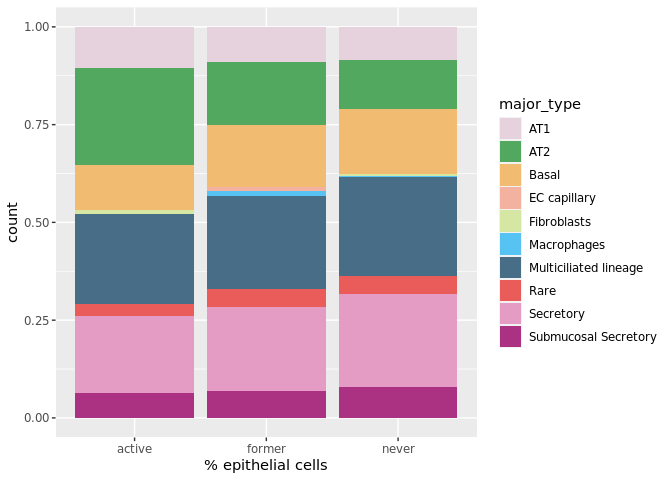
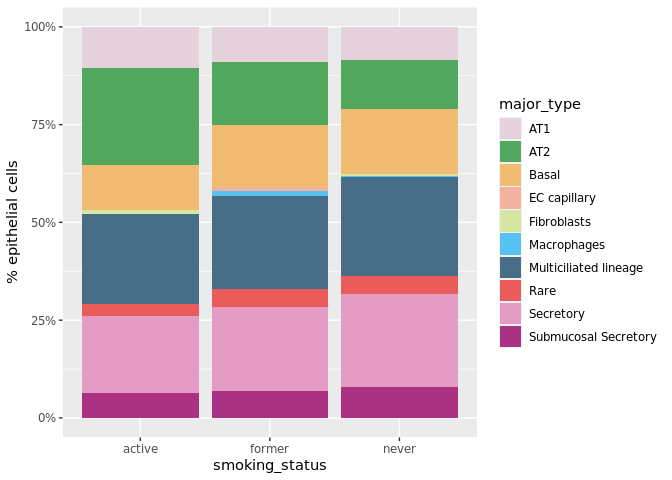
correcting y axis final fig unsup integration

diff --git a/examples/HLCA_core_atlas.md b/examples/HLCA_core_atlas.md
@@ -311,43 +311,43 @@ downstream analysis.
     combined.mc <- RunPCA(combined.mc, npcs = 30, verbose = FALSE)
     combined.mc <- RunUMAP(combined.mc, reduction = "pca", dims = 1:30)
 
-    ## 13:45:15 UMAP embedding parameters a = 0.9922 b = 1.112
+    ## 15:05:12 UMAP embedding parameters a = 0.9922 b = 1.112
 
-    ## 13:45:15 Read 11706 rows and found 30 numeric columns
+    ## 15:05:12 Read 11706 rows and found 30 numeric columns
 
-    ## 13:45:15 Using Annoy for neighbor search, n_neighbors = 30
+    ## 15:05:12 Using Annoy for neighbor search, n_neighbors = 30
 
-    ## 13:45:15 Building Annoy index with metric = cosine, n_trees = 50
+    ## 15:05:12 Building Annoy index with metric = cosine, n_trees = 50
 
     ## 0%   10   20   30   40   50   60   70   80   90   100%
 
     ## [----|----|----|----|----|----|----|----|----|----|
 
     ## **************************************************|
-    ## 13:45:17 Writing NN index file to temp file /tmp/35396656/RtmpuO1bzA/file1aba87e699b20
-    ## 13:45:17 Searching Annoy index using 1 thread, search_k = 3000
-    ## 13:45:20 Annoy recall = 100%
-    ## 13:45:20 Commencing smooth kNN distance calibration using 1 thread with target n_neighbors = 30
-    ## 13:45:21 Initializing from normalized Laplacian + noise (using irlba)
-    ## 13:45:22 Commencing optimization for 200 epochs, with 479450 positive edges
-    ## 13:45:27 Optimization finished
+    ## 15:05:13 Writing NN index file to temp file /tmp/35418471/RtmpEK6kr0/file539d15bd5e511
+    ## 15:05:13 Searching Annoy index using 1 thread, search_k = 3000
+    ## 15:05:16 Annoy recall = 100%
+    ## 15:05:16 Commencing smooth kNN distance calibration using 1 thread with target n_neighbors = 30
+    ## 15:05:17 Initializing from normalized Laplacian + noise (using irlba)
+    ## 15:05:18 Commencing optimization for 200 epochs, with 479450 positive edges
+    ## 15:05:23 Optimization finished
 
     combined.mc <- RunUMAP(combined.mc, dims = 1:30,reduction =  "pca",reduction.name = "umap")
 
-    ## 13:45:27 UMAP embedding parameters a = 0.9922 b = 1.112
-    ## 13:45:27 Read 11706 rows and found 30 numeric columns
-    ## 13:45:27 Using Annoy for neighbor search, n_neighbors = 30
-    ## 13:45:27 Building Annoy index with metric = cosine, n_trees = 50
+    ## 15:05:24 UMAP embedding parameters a = 0.9922 b = 1.112
+    ## 15:05:24 Read 11706 rows and found 30 numeric columns
+    ## 15:05:24 Using Annoy for neighbor search, n_neighbors = 30
+    ## 15:05:24 Building Annoy index with metric = cosine, n_trees = 50
     ## 0%   10   20   30   40   50   60   70   80   90   100%
     ## [----|----|----|----|----|----|----|----|----|----|
     ## **************************************************|
-    ## 13:45:28 Writing NN index file to temp file /tmp/35396656/RtmpuO1bzA/file1aba896f5224
-    ## 13:45:28 Searching Annoy index using 1 thread, search_k = 3000
-    ## 13:45:32 Annoy recall = 100%
-    ## 13:45:32 Commencing smooth kNN distance calibration using 1 thread with target n_neighbors = 30
-    ## 13:45:33 Initializing from normalized Laplacian + noise (using irlba)
-    ## 13:45:33 Commencing optimization for 200 epochs, with 479450 positive edges
-    ## 13:45:39 Optimization finished
+    ## 15:05:25 Writing NN index file to temp file /tmp/35418471/RtmpEK6kr0/file539d1623d915b
+    ## 15:05:25 Searching Annoy index using 1 thread, search_k = 3000
+    ## 15:05:28 Annoy recall = 100%
+    ## 15:05:28 Commencing smooth kNN distance calibration using 1 thread with target n_neighbors = 30
+    ## 15:05:29 Initializing from normalized Laplacian + noise (using irlba)
+    ## 15:05:30 Commencing optimization for 200 epochs, with 479450 positive edges
+    ## 15:05:36 Optimization finished
 
 Now we can make the plots and visually compare the results with the
 unintegrated analysis.
@@ -467,7 +467,7 @@ the smoking status.
     remove(combined.mc.epith)
     gc()
 
-    ggplot(smpCounts,aes(x = smoking_status,fill=major_type)) + geom_bar(position = "fill") + scale_fill_manual(values = color.celltypes) + xlab("% epithelial cells")
+    ggplot(smpCounts,aes(x = smoking_status,fill=major_type)) + geom_bar(position = "fill") + scale_fill_manual(values = color.celltypes) + scale_y_continuous(labels = scales::percent) + ylab("% epithelial cells")
 
 ![](HLCA_core_atlas_files/figure-markdown_strict/unnamed-chunk-20-1.png)
 
